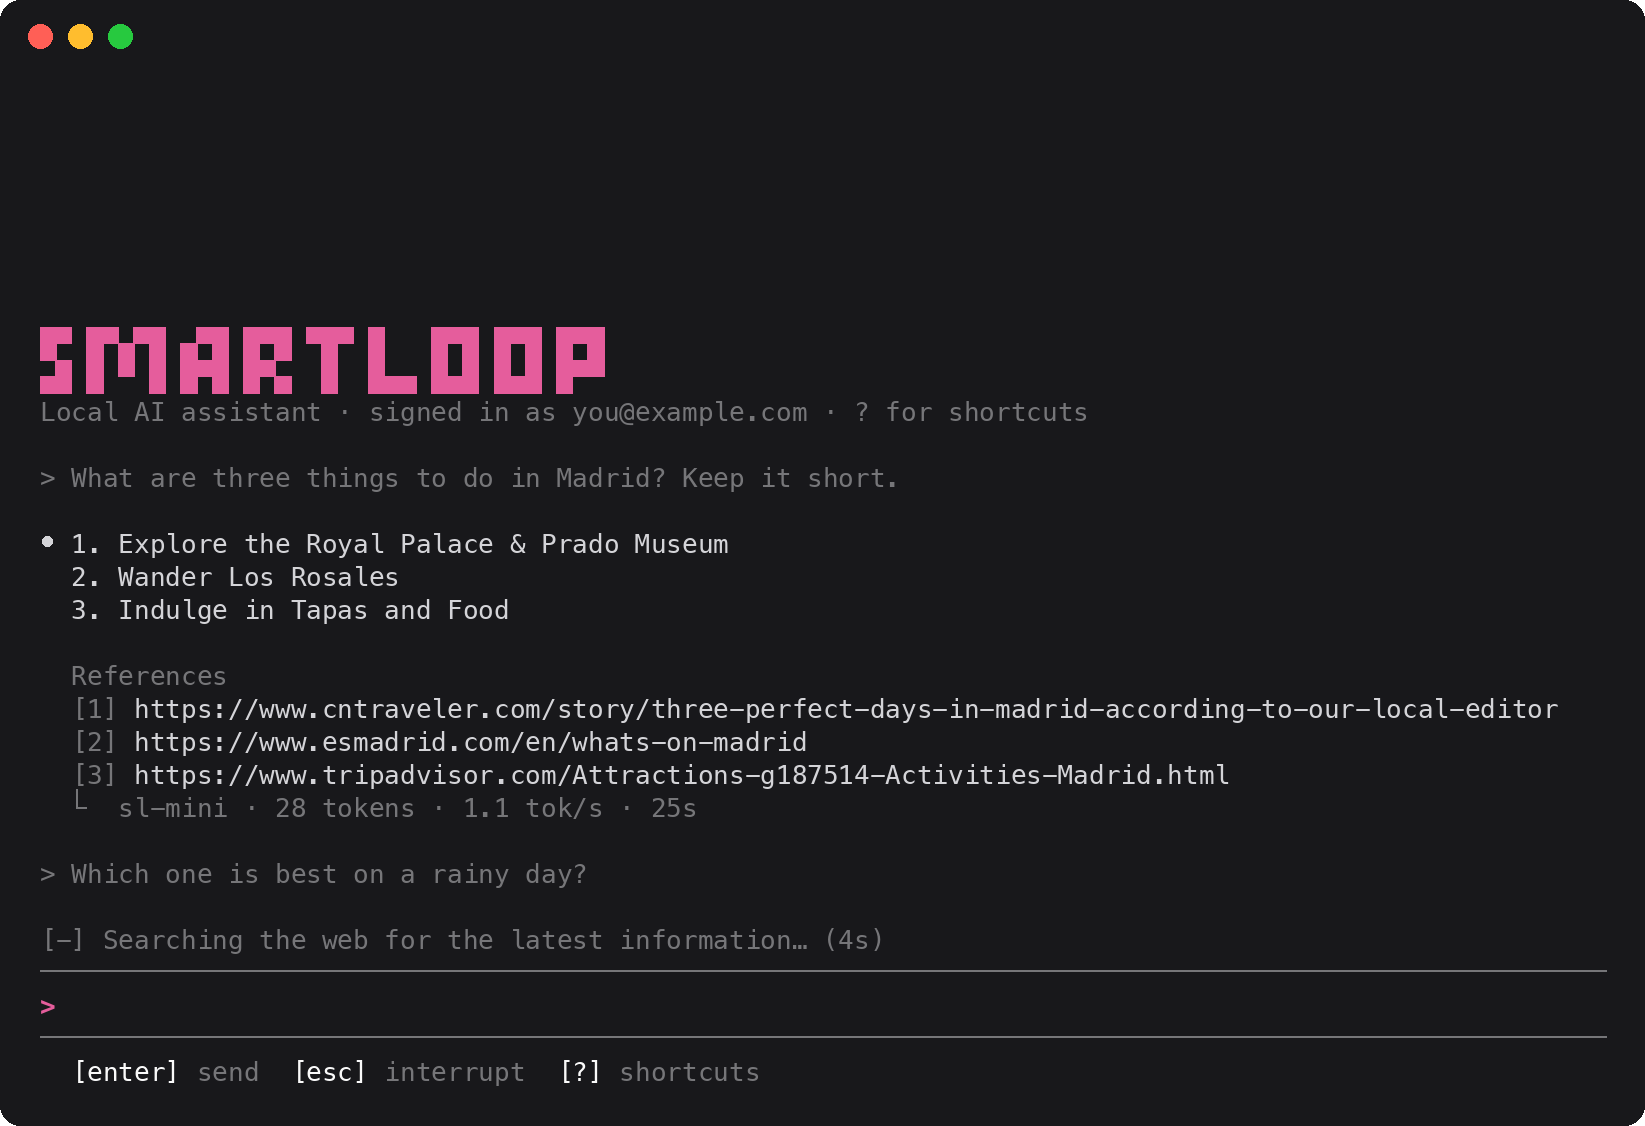
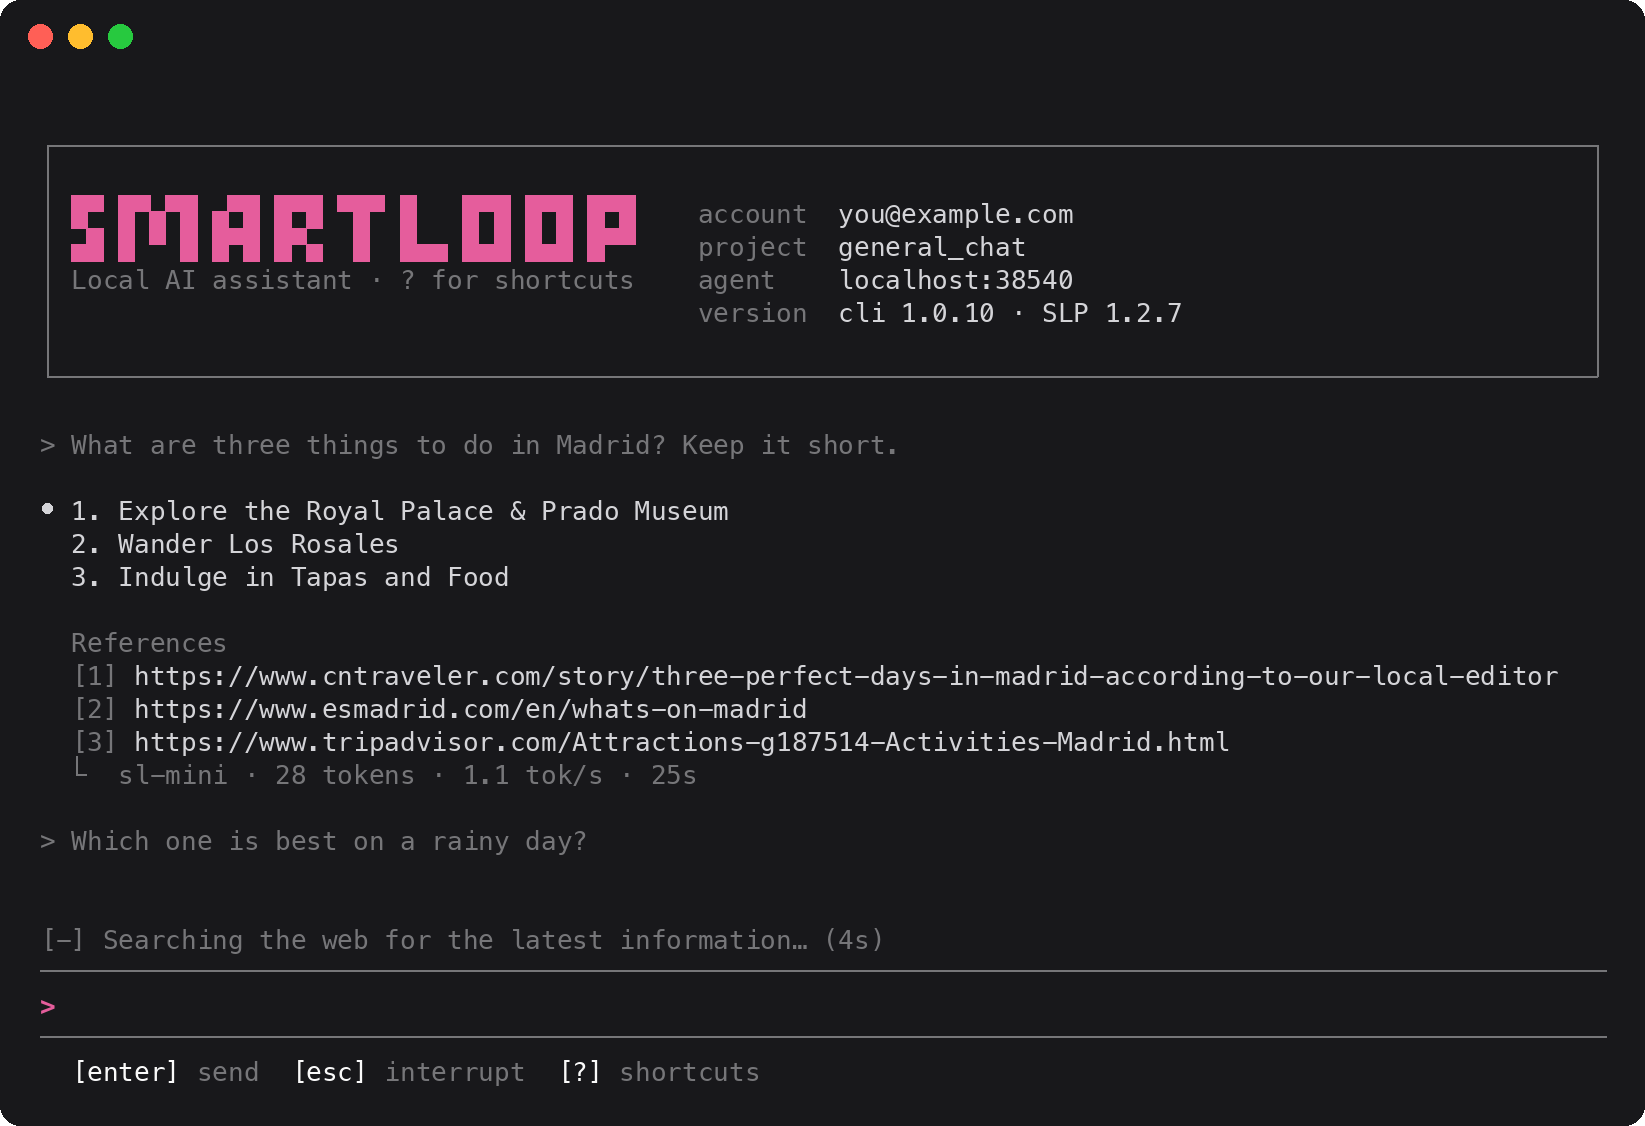
Open the chat with a two-column welcome card, and give it room
The logo sits on the left of a rounded card and the account, project,
agent and versions on the right; on a narrow screen the details go under
the logo. It scrolls away like the banner did. A blank row at the top
and one above the status line keep them from sitting cramped against
their neighbors. The screenshot renderer draws box edges as lines.

diff --git a/src/tui.rs b/src/tui.rs
@@ -968,8 +968,12 @@ impl App {
         let status = self.status_lines();
         // Command hints take the footer's place while a command is typed.
         let hints = self.hint_lines();
-        let [body, status_area, input, footer] = Layout::vertical([
+        // A blank row at the top, and one between the conversation and the
+        // status line, so neither sits cramped against its neighbor.
+        let [_, body, _, status_area, input, footer] = Layout::vertical([
+            Constraint::Length(1),
             Constraint::Min(3),
+            Constraint::Length(1),
             Constraint::Length(status.len().max(1) as u16),
             Constraint::Length(3),
             Constraint::Length(hints.len().max(1) as u16),
@@ -1044,18 +1048,83 @@ impl App {
         lines
     }
 
-    fn draw_conversation(&self, frame: &mut Frame, area: Rect) {
-        // The banner and who's signed in open the conversation, like a first
-        // message, and scroll away with it.
-        let mut lines: Vec<Line> = BANNER
+    /// The welcome card: the logo on the left, and on the right who's
+    /// signed in, the project, the agent and the versions.
+    ///
+    /// ```text
+    /// ╭──────────────────────────────────────────────────────────────╮
+    /// │                                                              │
+    /// │  █▀ █▀▄▀█ ▄▀█ █▀█ ▀█▀ █   █▀█ █▀█ █▀█   account  you@...    │
+    /// │  ▄█ █ ▀ █ █▀█ █▀▄  █  █▄▄ █▄█ █▄█ █▀▀   project  general_chat│
+    /// │  Local AI assistant                     agent    localhost…  │
+    /// │                                         version  cli 1.0.11  │
+    /// ╰──────────────────────────────────────────────────────────────╯
+    /// ```
+    fn welcome(&self, width: u16) -> Vec<Line<'static>> {
+        let width = width as usize;
+        let border = dim();
+        let account = self.account.clone().unwrap_or_else(|| "not signed in · /login".to_string());
+        let project = self.project.as_ref().map_or("…".to_string(), |(_, name)| name.clone());
+        let right = [
+            ("account", account),
+            ("project", project),
+            ("agent", crate::base_url().trim_start_matches("http://").to_string()),
+            ("version", format!("cli {} · SLP {}", env!("CARGO_PKG_VERSION"), framework::VERSION)),
+        ];
+        // Styled per span: the rows are taken apart into spans below.
+        let mut left: Vec<Line<'static>> = BANNER
             .iter()
-            .map(|row| Line::styled(*row, Style::new().fg(pink())))
+            .map(|row| Line::from(Span::styled(*row, Style::new().fg(pink()))))
             .collect();
-        let account = match &self.account {
-            Some(who) => format!("signed in as {}", who),
-            None => "not signed in · /login".to_string(),
+        left.push(Line::from(Span::styled("Local AI assistant · ? for shortcuts", dim())));
+        let left_width = BANNER[0].chars().count().max(left[2].width()) + 4;
+
+        let row = |label: &str, value: &str| {
+            Line::from(vec![
+                Span::styled(format!("{:<9}", label), dim()),
+                Span::raw(value.to_string()),
+            ])
         };
-        lines.push(Line::styled(format!("Local AI assistant · {} · ? for shortcuts", account), dim()));
+        let inner = width.saturating_sub(4);
+        // Two columns when there's room, else the details under the logo.
+        let body: Vec<Line<'static>> = if inner >= left_width + 30 {
+            (0..left.len().max(right.len()))
+                .map(|i| {
+                    let mut spans = left.get(i).cloned().unwrap_or_default().spans;
+                    let used: usize = spans.iter().map(|s| s.width()).sum();
+                    spans.push(Span::raw(" ".repeat(left_width.saturating_sub(used))));
+                    if let Some((label, value)) = right.get(i) {
+                        let room = inner.saturating_sub(left_width + 9);
+                        spans.extend(row(label, &truncate(value, room)).spans);
+                    }
+                    Line::from(spans)
+                })
+                .collect()
+        } else {
+            let mut body = left;
+            body.push(Line::default());
+            body.extend(right.iter().map(|(l, v)| row(l, &truncate(v, inner.saturating_sub(9)))));
+            body
+        };
+
+        let mut lines = vec![Line::styled(format!("╭{}╮", "─".repeat(width.saturating_sub(2))), border)];
+        let blank = Line::default();
+        for line in std::iter::once(&blank).chain(body.iter()).chain(std::iter::once(&blank)) {
+            let used = line.width().min(inner);
+            let mut spans = vec![Span::styled("│ ", border)];
+            spans.extend(line.spans.iter().cloned());
+            spans.push(Span::raw(" ".repeat(inner - used)));
+            spans.push(Span::styled(" │", border));
+            lines.push(Line::from(spans));
+        }
+        lines.push(Line::styled(format!("╰{}╯", "─".repeat(width.saturating_sub(2))), border));
+        lines
+    }
+
+    fn draw_conversation(&self, frame: &mut Frame, area: Rect) {
+        // The welcome card opens the conversation, like a first message, and
+        // scrolls away with it.
+        let mut lines = self.welcome(area.width);
         if !self.setup.steps.is_empty() {
             lines.push(Line::default());
             lines.extend(self.setup.lines());
@@ -1486,8 +1555,11 @@ mod tests {
         let text = screen(&app, 80, 24);
         let rows: Vec<&str> = text.lines().collect();
         // Short: the banner sits just above the prompt.
-        let banner = rows.iter().position(|r| r.starts_with("█▀ █▀▄▀█")).expect(&text);
-        assert!(rows[banner + 2].contains("not signed in"), "{}", text);
+        let banner = rows.iter().position(|r| r.contains("█▀ █▀▄▀█")).expect(&text);
+        assert!(rows[banner].contains("account  not signed in"), "{}", text);
+        assert!(rows[banner + 1].contains("project  Default"), "{}", text);
+        assert!(rows[banner + 3].contains(&format!("version  cli {}", env!("CARGO_PKG_VERSION"))), "{}", text);
+        assert!(rows[banner - 2].starts_with('╭') && rows[banner + 5].starts_with('╰'), "{}", text);
         for i in 0..40 {
             app.entries.push(Entry::Notice(format!("line {}", i)));
         }
@@ -1569,8 +1641,8 @@ mod tests {
         let rows: Vec<&str> = text.lines().collect();
         let at = rows.iter().position(|r| r.contains("hello")).expect(&text);
         let prompt = rows.iter().rposition(|r| r.starts_with('>')).expect(&text) - 1;
-        // Only the (empty) status row between them.
-        assert_eq!(prompt - at, 2, "{}", text);
+        // A blank row and the (empty) status row between them.
+        assert_eq!(prompt - at, 3, "{}", text);
     }
 
     #[test]

diff --git a/docs/render-screenshot.py b/docs/render-screenshot.py
@@ -8,8 +8,9 @@ a PNG in a terminal window:
     SCREENSHOT_JSON=/tmp/screen.json cargo test screenshot -- --ignored
     python3 docs/render-screenshot.py /tmp/screen.json docs/tui.png
 
-Needs Pillow. Text is set in Menlo; the two symbols it lacks (⏺ and ⎿) are
-drawn as shapes, the way a terminal's fallback font shows them.
+Needs Pillow. Text is set in Menlo; the symbols it lacks (⏺ and ⎿) and the
+box and block characters are drawn as shapes, so they join up as they do in
+a terminal.
 """
 
 import json
@@ -82,6 +83,18 @@ def main(source, target):
                 w = max(1, SCALE)
                 draw.line((cx, upper, cx, cy), fill=rgb, width=w)
                 draw.line((cx, cy, left + cell_w, cy), fill=rgb, width=w)
+            elif symbol in "│╭╮╰╯":
+                # Box edges meet their neighbors at the cell's center lines.
+                w = max(1, SCALE)
+                cx, cy = left + cell_w / 2, upper + cell_h / 2
+                right, bottom = left + cell_w + 1, upper + cell_h + 1
+                if symbol == "│":
+                    draw.line((cx, upper, cx, bottom), fill=rgb, width=w)
+                else:
+                    horizontal = (cx, right) if symbol in "╭╰" else (left, cx)
+                    vertical = (cy, bottom) if symbol in "╭╮" else (upper, cy)
+                    draw.line((horizontal[0], cy, horizontal[1], cy), fill=rgb, width=w)
+                    draw.line((cx, vertical[0], cx, vertical[1]), fill=rgb, width=w)
             elif symbol in "─▀▄█":
                 # Block and rule characters fill their cell edge to edge.
                 if symbol == "─":
